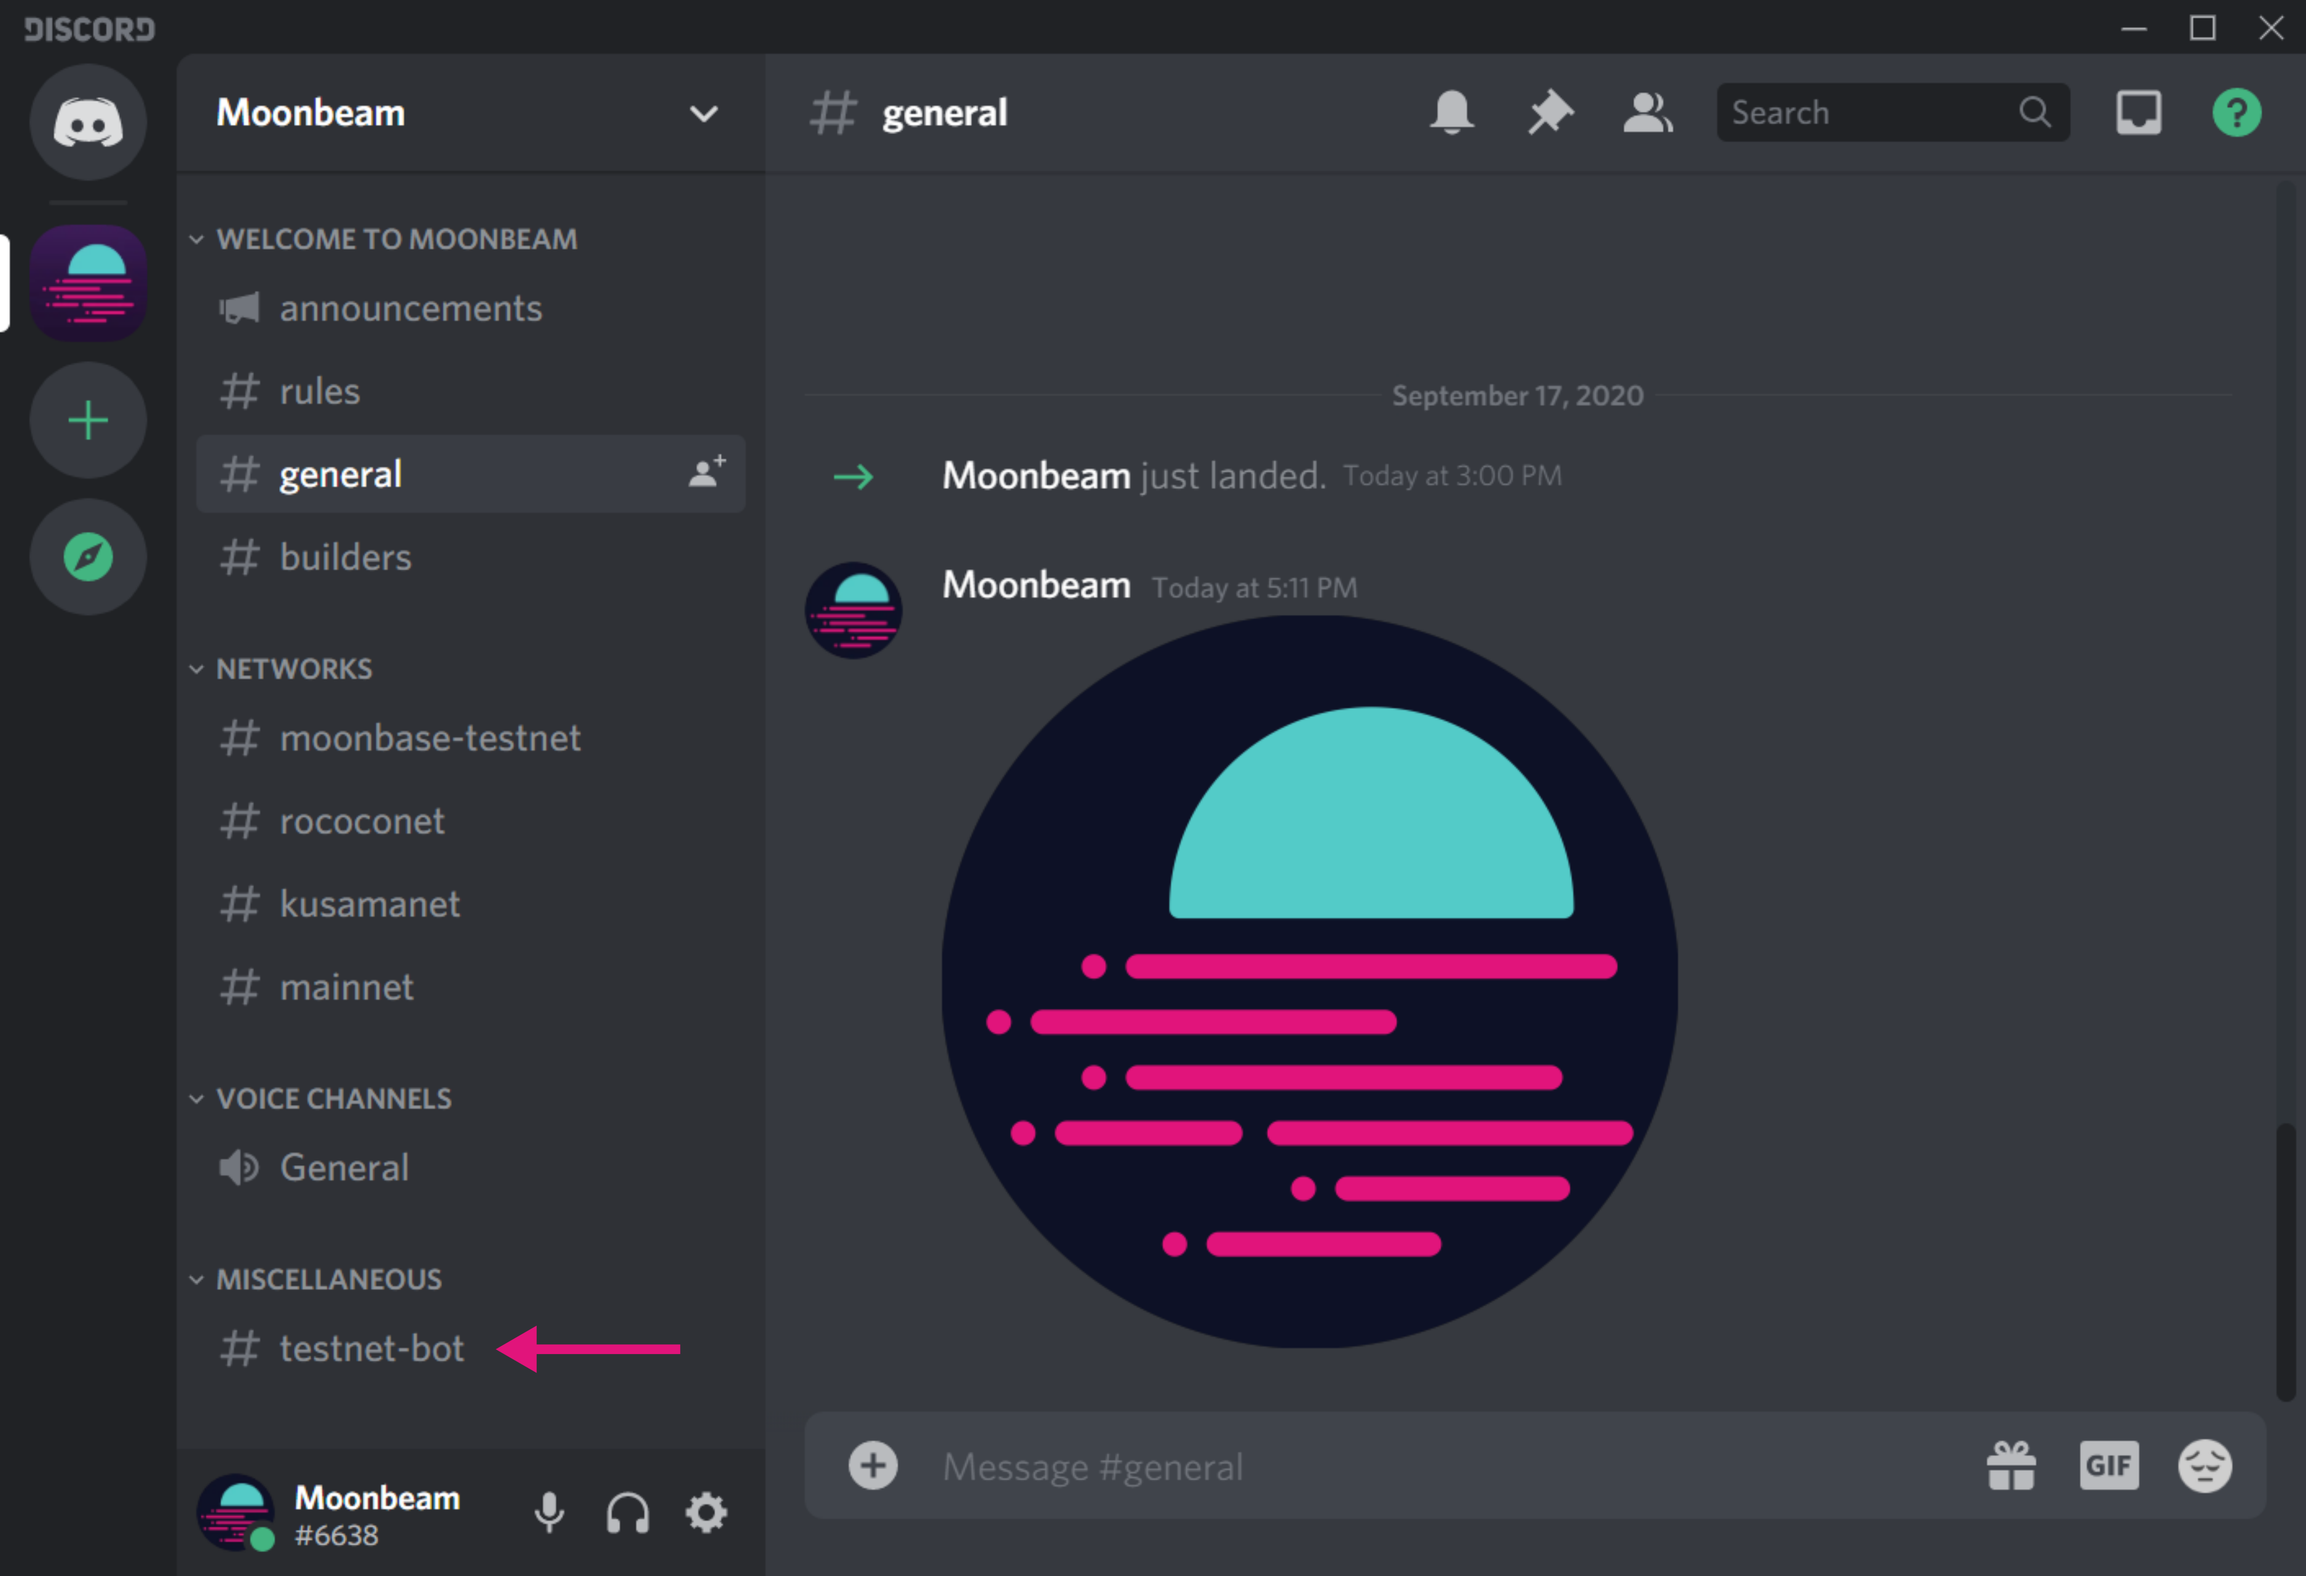
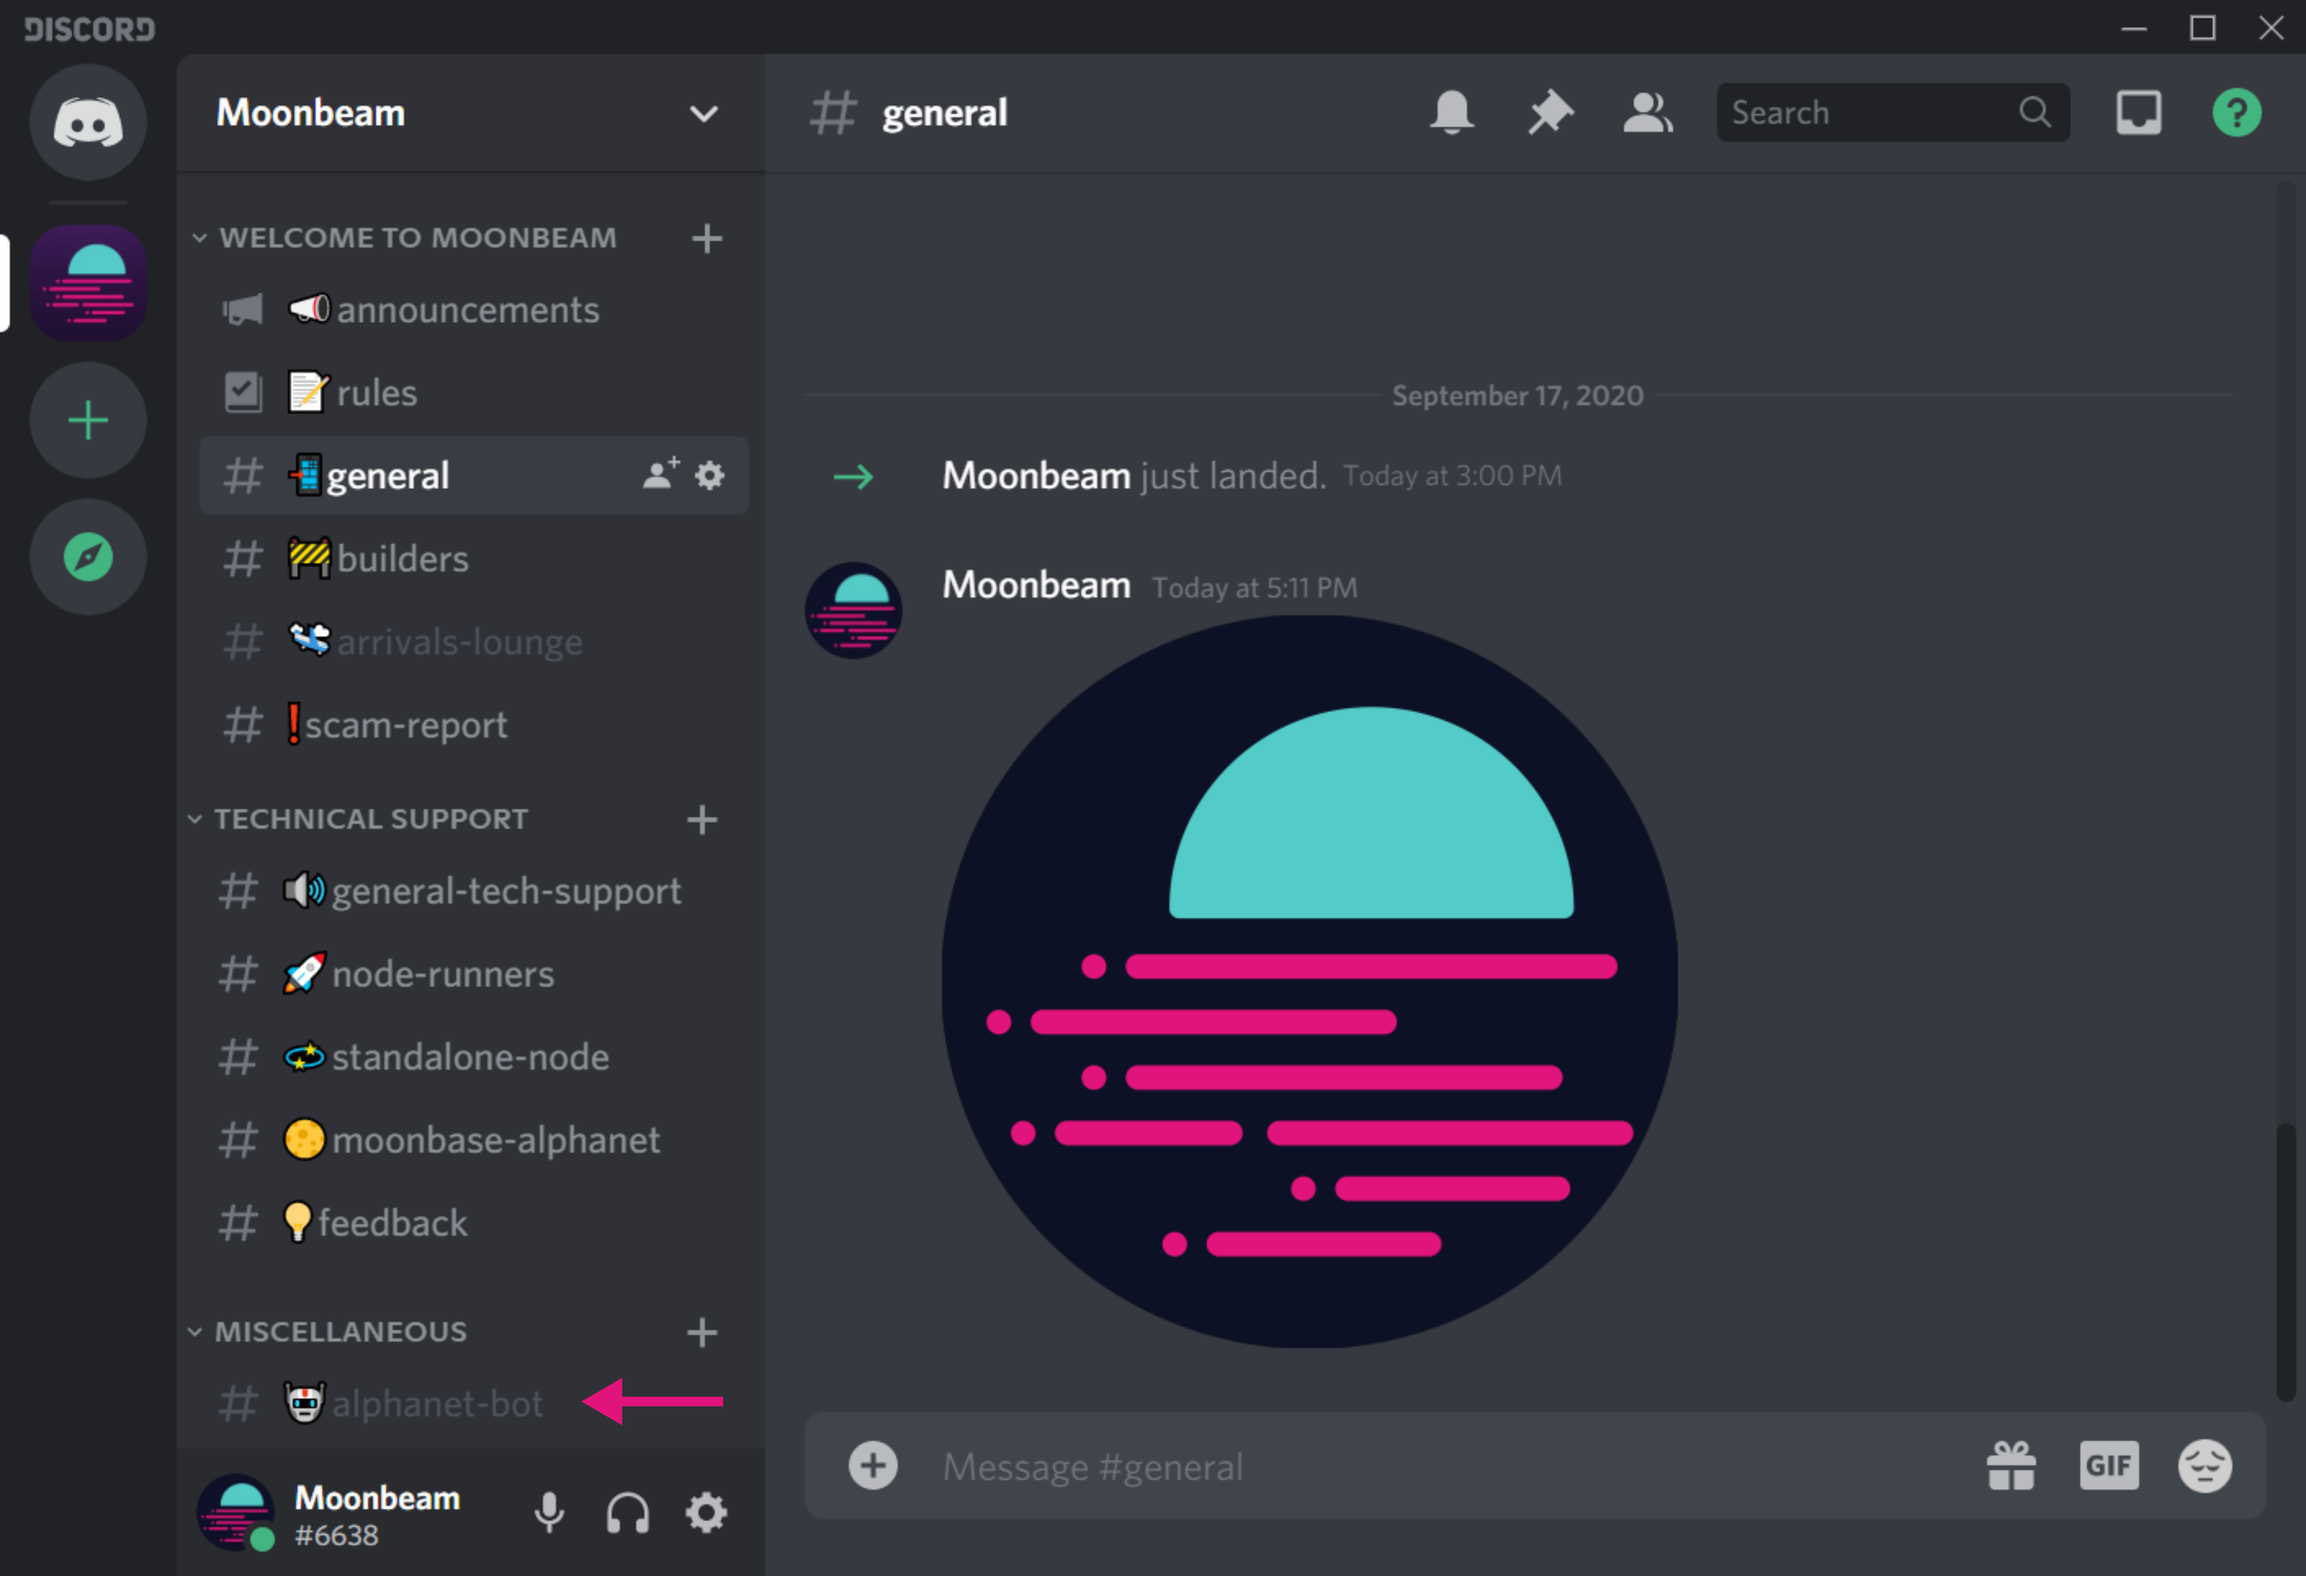
update images

diff --git a/getting-started/moonbase/faucet.md b/getting-started/moonbase/faucet.md
@@ -18,7 +18,7 @@ To request tokens automatically, we've created a Discord bot (named Mission Cont
  
 Under the category "Miscellaneous," you will find our AlphaNet bot channel. 
 
-![Discord1](/images/testnet/testnet-discord1a.png)
+![Discord1](/images/testnet/testnet-discord1.png)
 
 To check your balance, enter the following message, replacing `<enter-address-here->` with your H160 address:
 
@@ -34,7 +34,7 @@ To get DEV tokens, enter the following message, replacing `<enter-address-here->
 
 Mission Control will send you 5 DEV tokens and display your current account balance. Remember that Mission Control is limited to dispense once every 24 hours per Discord user.
 
-![Discord2](/images/testnet/testnet-discord2a.png)
+![Discord2](/images/testnet/testnet-discord2.png)
 
 ## Manual Procedure
 
